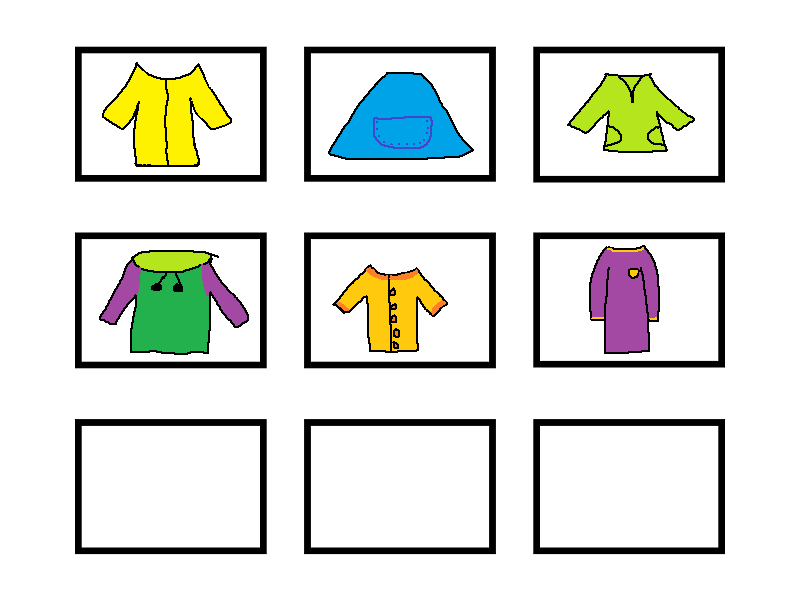
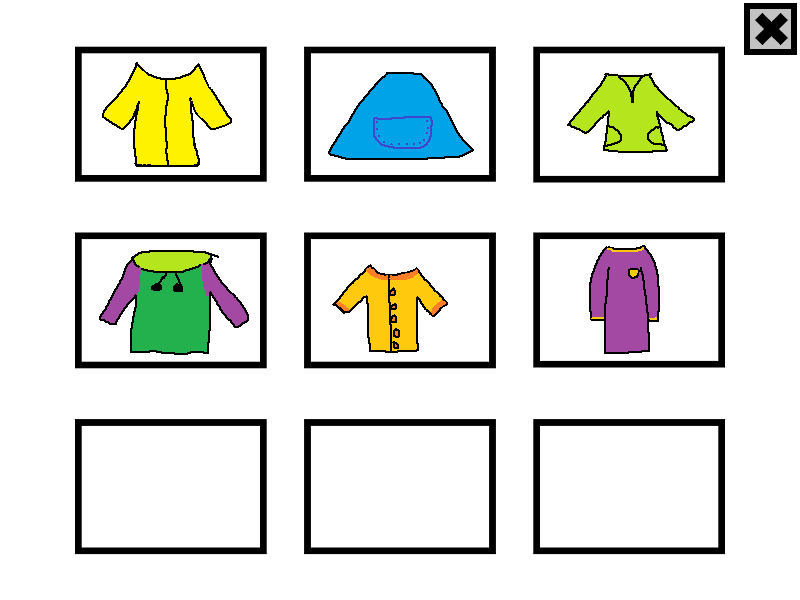
Blauer Rahmen rechts, X-Button Auswahlfenster

Changed region(s): [[0.9062, 0.0, 1.0, 0.09]]

diff --git a/js/navigation.js b/js/navigation.js
@@ -5,6 +5,7 @@ var lilaJacke = false; //verhindert, dass lila Jacke durch Mouseover verändert 
 var imAuswahlFenster = true;
 var imSaleFenster = false;
 var groesseGesetzt = false;
+var groessenAuswahl = "";
 var personenJahreszeiten = ["Sommer_colored.png", "Winter_colored.png", "Regen_Colored_1.png"];  // Grundbilder von der Person
 
 var koerperregionenX = ["Links", "Mitte", "Rechts"] //Koordinatenfeld über die Person in X-Richtung
@@ -228,7 +229,7 @@ function openShoppingCart() {
 }
 
 // hinzufügen eines Artikels zum Warenkorb
-function addToCart(name) {
+function addToCart(name, groesse) {
     currentItems = sessionStorage.getItem("itemsInCart");
     if(currentItems != null) {
         sessionStorage.setItem("itemsInCart", currentItems + ";" + name);
@@ -288,8 +289,10 @@ function saleAuswahl(e) {
     if (this.imAuswahlFenster==true){
         var Pos_lilaJacke = [533, 723, 232, 368];
         var img_lilaJacke = [800, 600];
+        var Pos_X = [744, 797, 3, 55];
         img_width = img_width/img_lilaJacke[0];
         img_height = img_height/img_lilaJacke[1];
+        // lila Jacke
         if ((Pos_lilaJacke[0]*img_width < Pos[0]) && (Pos[0] < Pos_lilaJacke[1]*img_width) && (Pos_lilaJacke[2]*img_height < Pos[1]) && (Pos[1]< Pos_lilaJacke[3]*img_height)) {
             this.lilaJacke = true;
             document.getElementById("IVperson").src = "pictures/regen/regen_Colored_lila_Jacke_mit_grau.png";
@@ -297,6 +300,11 @@ function saleAuswahl(e) {
             this.saleFenster=true;
             this.imAuswahlFenster=false;
         }
+        // Cancel
+        if ((Pos_X[0]*img_width < Pos[0]) && (Pos[0] < Pos_X[1]*img_width) && (Pos_X[2]*img_height < Pos[1]) && (Pos[1]< Pos_X[3]*img_height)) { 
+            openIndex();
+        }
+
     } else if (this.saleFenster==true){ 
         var Pos_S = [345, 395, 370, 414];
         var Pos_M = [405, 453, 370, 414];
@@ -310,7 +318,7 @@ function saleAuswahl(e) {
         if ((Pos_shoppingCart[0]*img_width < Pos[0]) && (Pos[0] < Pos_shoppingCart[1]*img_width) && (Pos_shoppingCart[2]*img_height < Pos[1]) && (Pos[1]< Pos_shoppingCart[3]*img_height)) {
             if (groesseGesetzt) {
                 document.getElementById("SaleAuswahl").src = "pictures/sale/sale_finished.png"; 
-                addToCart("Regenjacke lila");
+                addToCart("Regenjacke lila", this.groessenAuswahl);
                 this.saleFenster=false;
                 this.imAuswahlFenster=true;
                 // 2 sekunden warten dann wechseln
@@ -324,16 +332,19 @@ function saleAuswahl(e) {
         // Groesse S
         if ((Pos_S[0]*img_width < Pos[0]) && (Pos[0] < Pos_S[1]*img_width) && (Pos_S[2]*img_height < Pos[1]) && (Pos[1]< Pos_S[3]*img_height)) {
             document.getElementById("SaleAuswahl").src = "pictures/sale/sale_Colored_lila_Jacke_S.png";
+            groessenAuswahl = "S";
             groesseGesetzt = true;
         } 
         // Groesse M
         if ((Pos_M[0]*img_width < Pos[0]) && (Pos[0] < Pos_M[1]*img_width) && (Pos_M[2]*img_height < Pos[1]) && (Pos[1]< Pos_M[3]*img_height)) { 
             document.getElementById("SaleAuswahl").src = "pictures/sale/sale_Colored_lila_Jacke_M.png";
+            groessenAuswahl = "M";
             groesseGesetzt = true;
         } 
         // Groesse L
         if ((Pos_L[0]*img_width < Pos[0]) && (Pos[0] < Pos_L[1]*img_width) && (Pos_L[2]*img_height < Pos[1]) && (Pos[1]< Pos_L[3]*img_height)) { 
             document.getElementById("SaleAuswahl").src = "pictures/sale/sale_Colored_lila_Jacke_L.png";
+            groessenAuswahl = "L";
             groesseGesetzt = true;
         } 
         // Cancel

diff --git a/index.html b/index.html
@@ -101,6 +101,14 @@
     border-left: 3px solid #4f99df;
     border-right: 3px solid #4f99df;
     }
+    
+    .rightBox {
+    height: auto;
+    justify-content: center;
+    align-items: center;
+    display: flex;
+    border-right: 3px solid #4f99df;    
+    }
 
     img {
     max-width: 100%;
@@ -192,7 +200,7 @@
                     <a id="BTregen" tabindex="0" onkeypress="setJahreszeit(jahreszeiten[2])" onclick="setJahreszeit(jahreszeiten[2])"><img src="pictures/kategorien/rainy.svg" alt="Bild einer Regenwolke, zeigt Regenkleidung an" title="Regenkleidung"></a>
                   </div>
             </div>
-            <div class="desktop-1-cols">
+            <div class="desktop-1-cols rightBox">
 
             </div>
         </div>
@@ -204,7 +212,7 @@
             <div class="desktop-9-cols img">
                 <img id="IVperson" alt="Bild einer Person, die Sommerkleidung trägt. Zu sehen ist eine Schirmmütze, eine Sonnenbrille, ein T-Shirt, eine kurze Hose und Flipflops. Durch klicken auf das jeweilige Objekt wird eine Auswahl diesen Typs angezeigt." title="Wähle durch Klicken einen Typ von Kleidung aus." onmousemove="onMausUeberDerPerson(event)" onmouseout="showBasicPerson()" onmouseenter="mausIstAufDerPerson = true" onmouseup="openDetailansicht()"/>
             </div>
-            <div class="desktop-3-cols">
+            <div class="desktop-1-cols rightBox">
 
             </div>
         </div>

diff --git a/detailansicht.html b/detailansicht.html
@@ -101,6 +101,14 @@
     border-right: 3px solid #4f99df;
     }
 
+    .rightBox {
+    height: auto;
+    justify-content: center;
+    align-items: center;
+    display: flex;
+    border-right: 3px solid #4f99df;    
+    }
+
     img {
     max-width: 100%;
     max-height: 100%;
@@ -182,7 +190,7 @@
                     <a id="BTregen" onclick="setJahreszeitAndGoToMainPage(jahreszeiten[2])"><img src="pictures/kategorien/rainy.svg"></a>
                   </div>
             </div>
-            <div class="desktop-1-cols">
+            <div class="desktop-1-cols rightBox">
 
             </div>
         </div>
@@ -194,9 +202,13 @@
             <div class="desktop-3-cols">
                 <img id="IVperson" src="pictures/regen/regen_Colored_1.png" onmousemove="onMausUeberDerPerson(event)" onmouseout="showBasicPerson()" onmouseenter="mausIstAufDerPerson = true"/>
             </div>
-            <div class="desktop-6-cols"> 
+            <div class="desktop-5-cols"> 
                 <img id="SaleAuswahl" src="pictures/sale/sale_Auswahl.png" onmouseup="saleAuswahl(event)"/>
             </div>
+            <div class="desktop-2-cols rightBox">
+
+            </div>
+
         </div>
         <div class="col-12 footer">
             <p>C. Hagemeyer, R. Gieseke, M. Herrmann, T. Schockemöhle</p>
